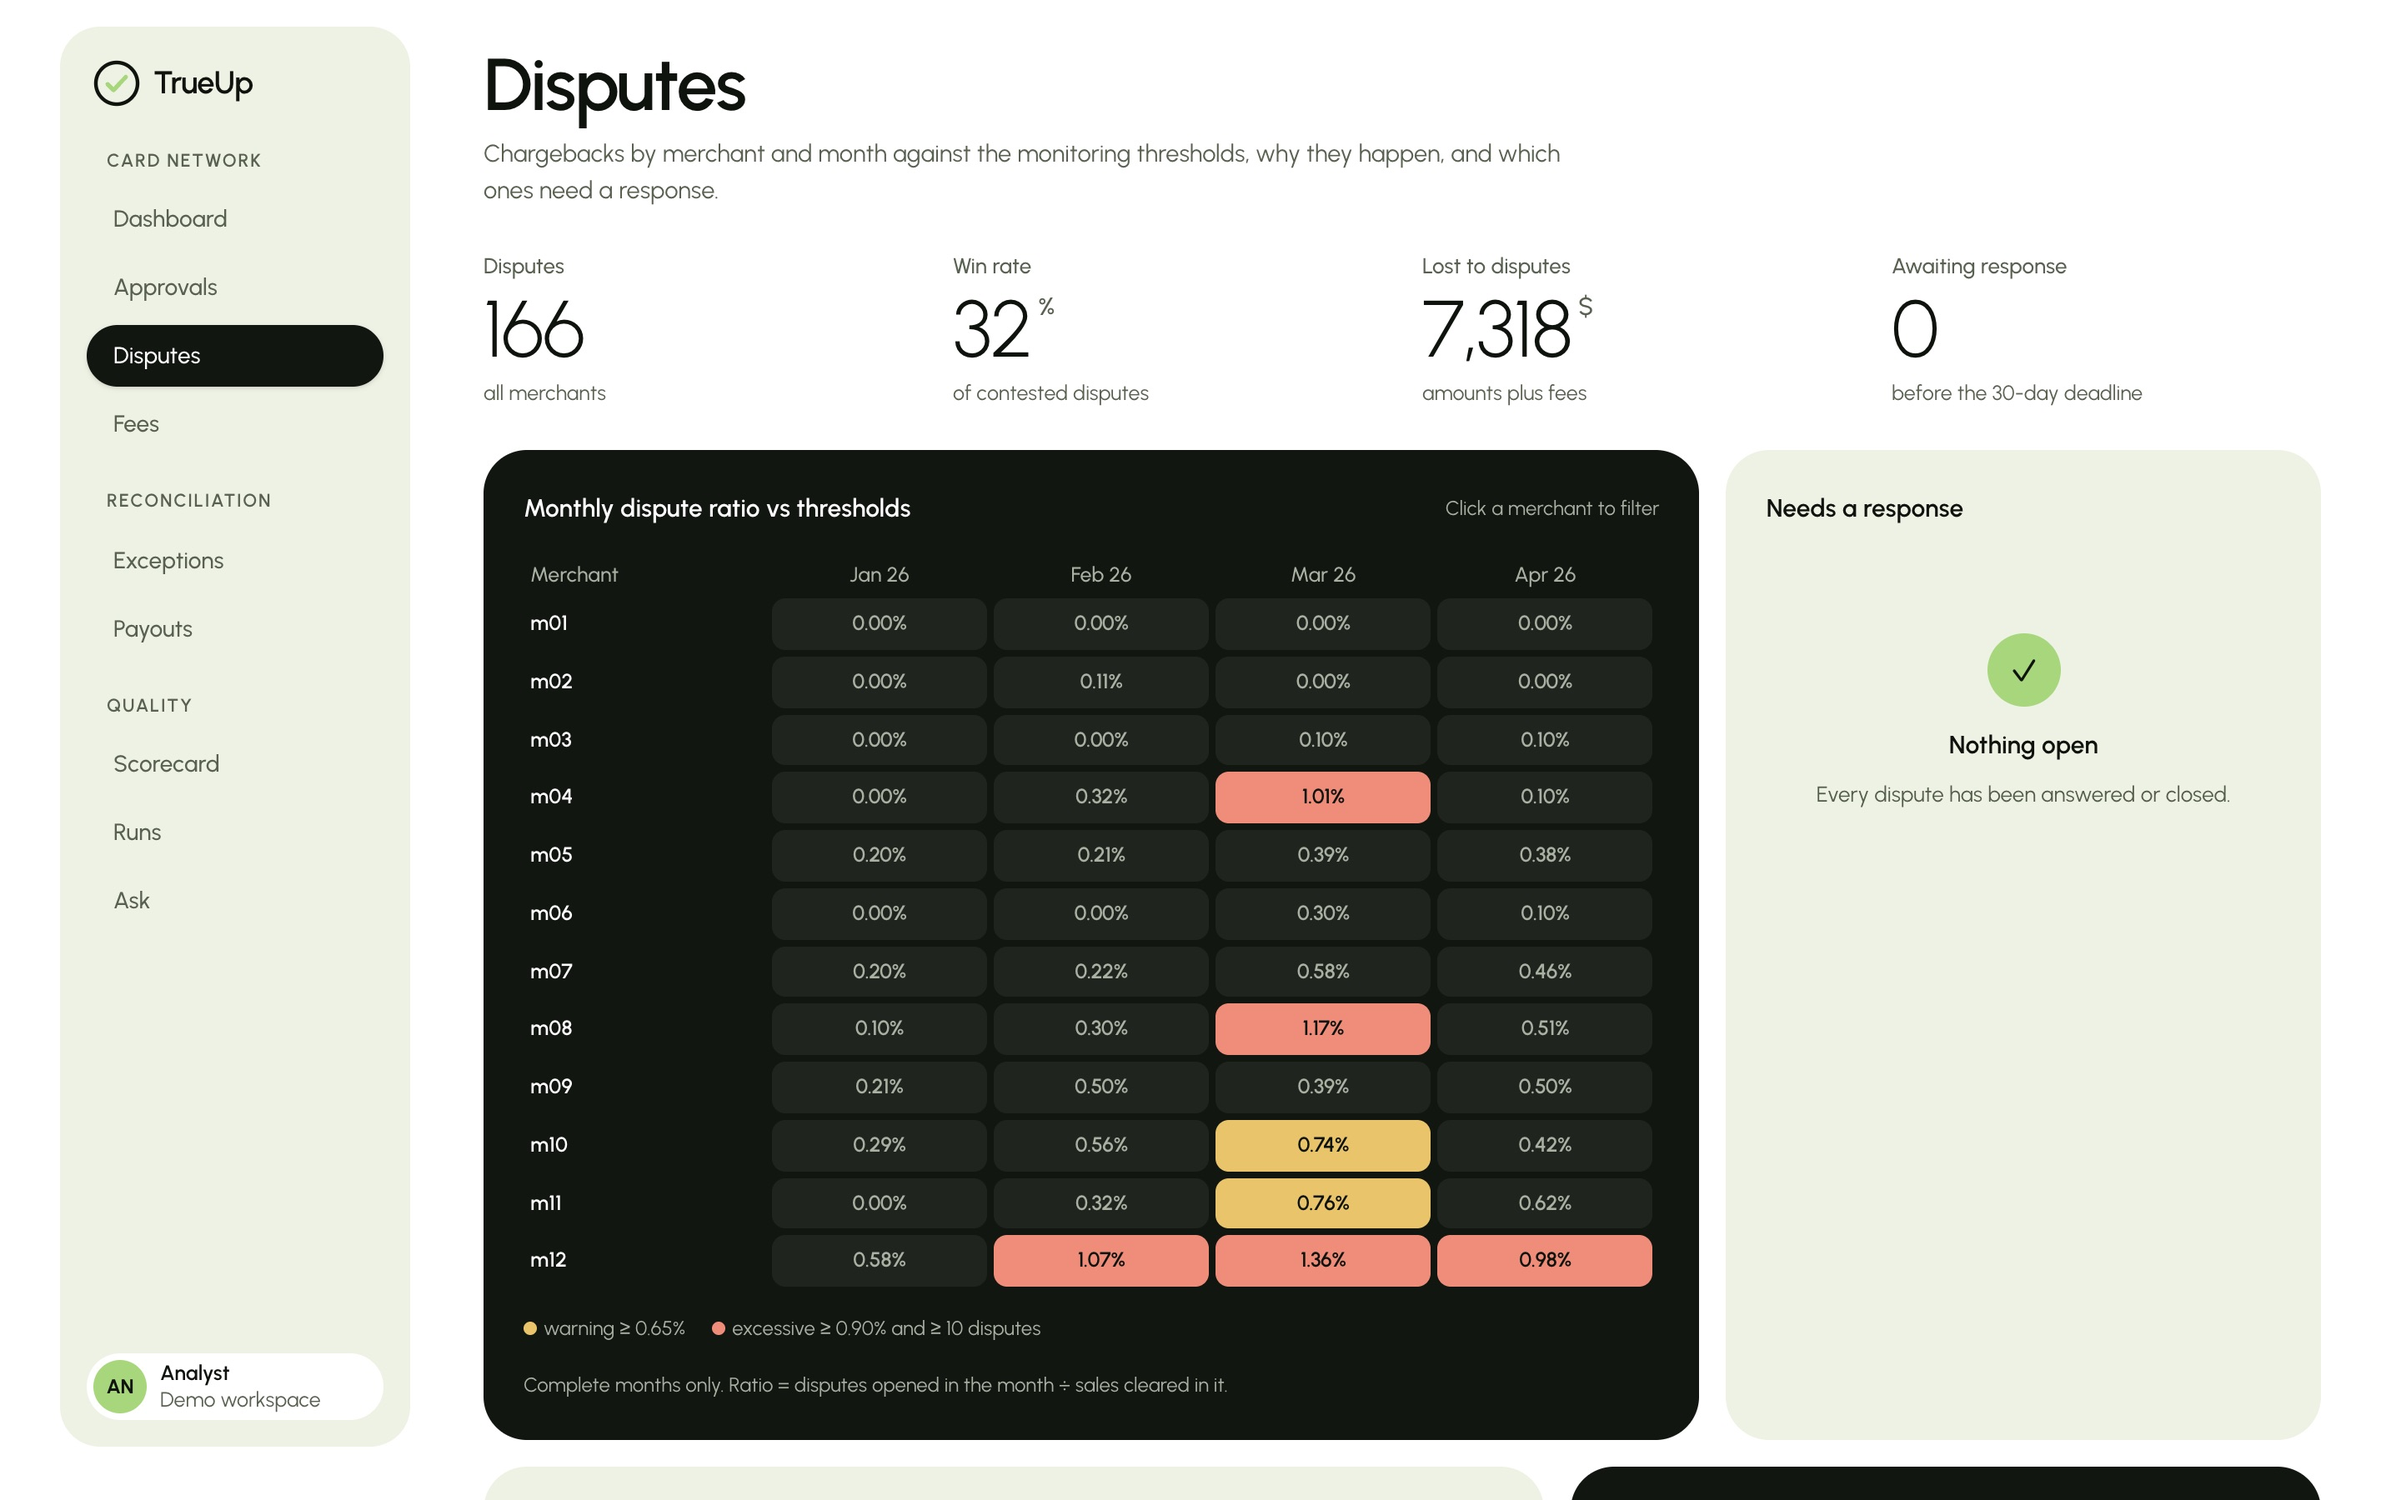
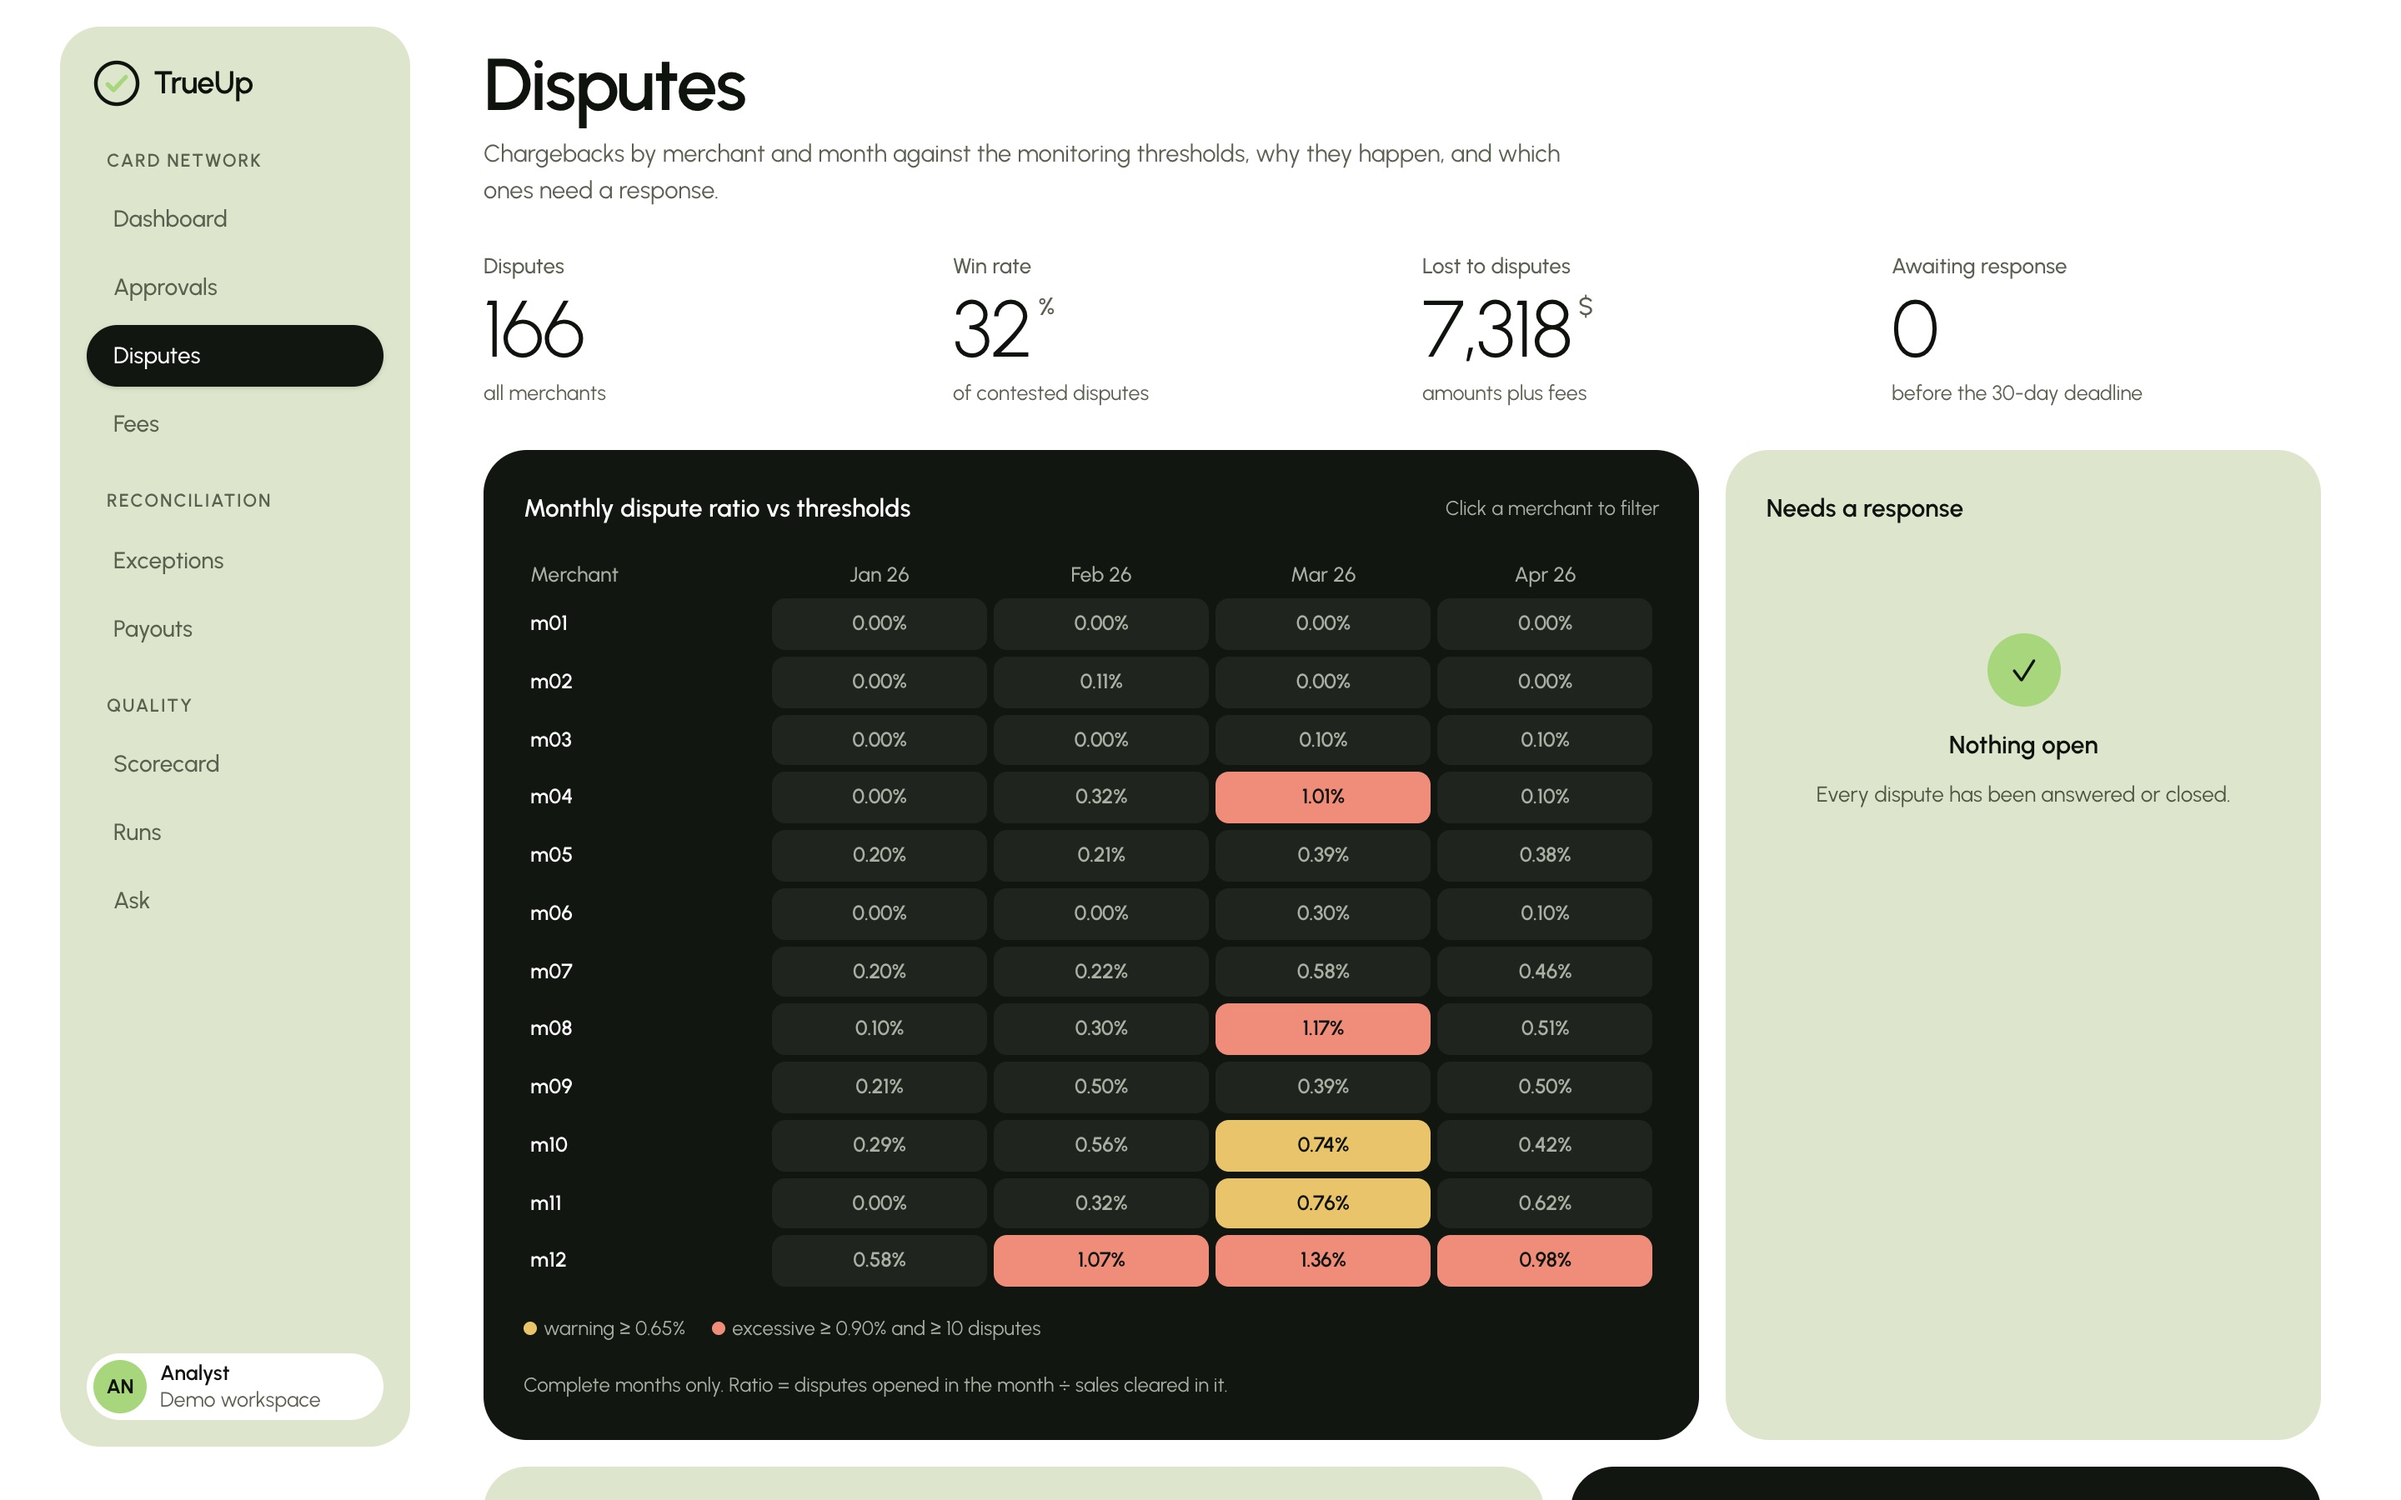
Darker sage for the sidebar and side cards

Changed region(s): [[0.0312, 0.0311, 0.0938, 0.0622], [0.0625, 0.1867, 0.0938, 0.2178]]

diff --git a/dashboard/app/globals.css b/dashboard/app/globals.css
@@ -8,14 +8,14 @@
   --page: #ffffff;
   --panel: #4a6238;
   --panel-2: #557044;
-  --card: #eef2e4; /* cream: side cards, tables */
+  --card: #dde5cc; /* cream: side cards, tables */
   --ink: #0f130d;
-  --muted: #535d49; /* on cream: 6.1:1 */
-  --line: #d9e0cc;
+  --muted: #4c5643; /* on cream: 6.2:1 */
+  --line: #c9d3b4;
   --teal: #121611; /* "dark": black cards and primary buttons */
   --teal-deep: #0b0e0a;
   --lime: #a8d67c;
-  --lime-soft: #dcebc9;
+  --lime-soft: #cfe3b4;
   --warn: #8a4a0c;
   --warn-soft: #f5e6cd;
   --bad: #ad2229;
@@ -122,7 +122,7 @@ input {
   border-radius: 14px;
 }
 .bg-card .skeleton {
-  background: linear-gradient(90deg, #e2e8d6 25%, #eef2e4 50%, #e2e8d6 75%);
+  background: linear-gradient(90deg, #d2dbbf 25%, #dde5cc 50%, #d2dbbf 75%);
   background-size: 200% 100%;
 }
 
